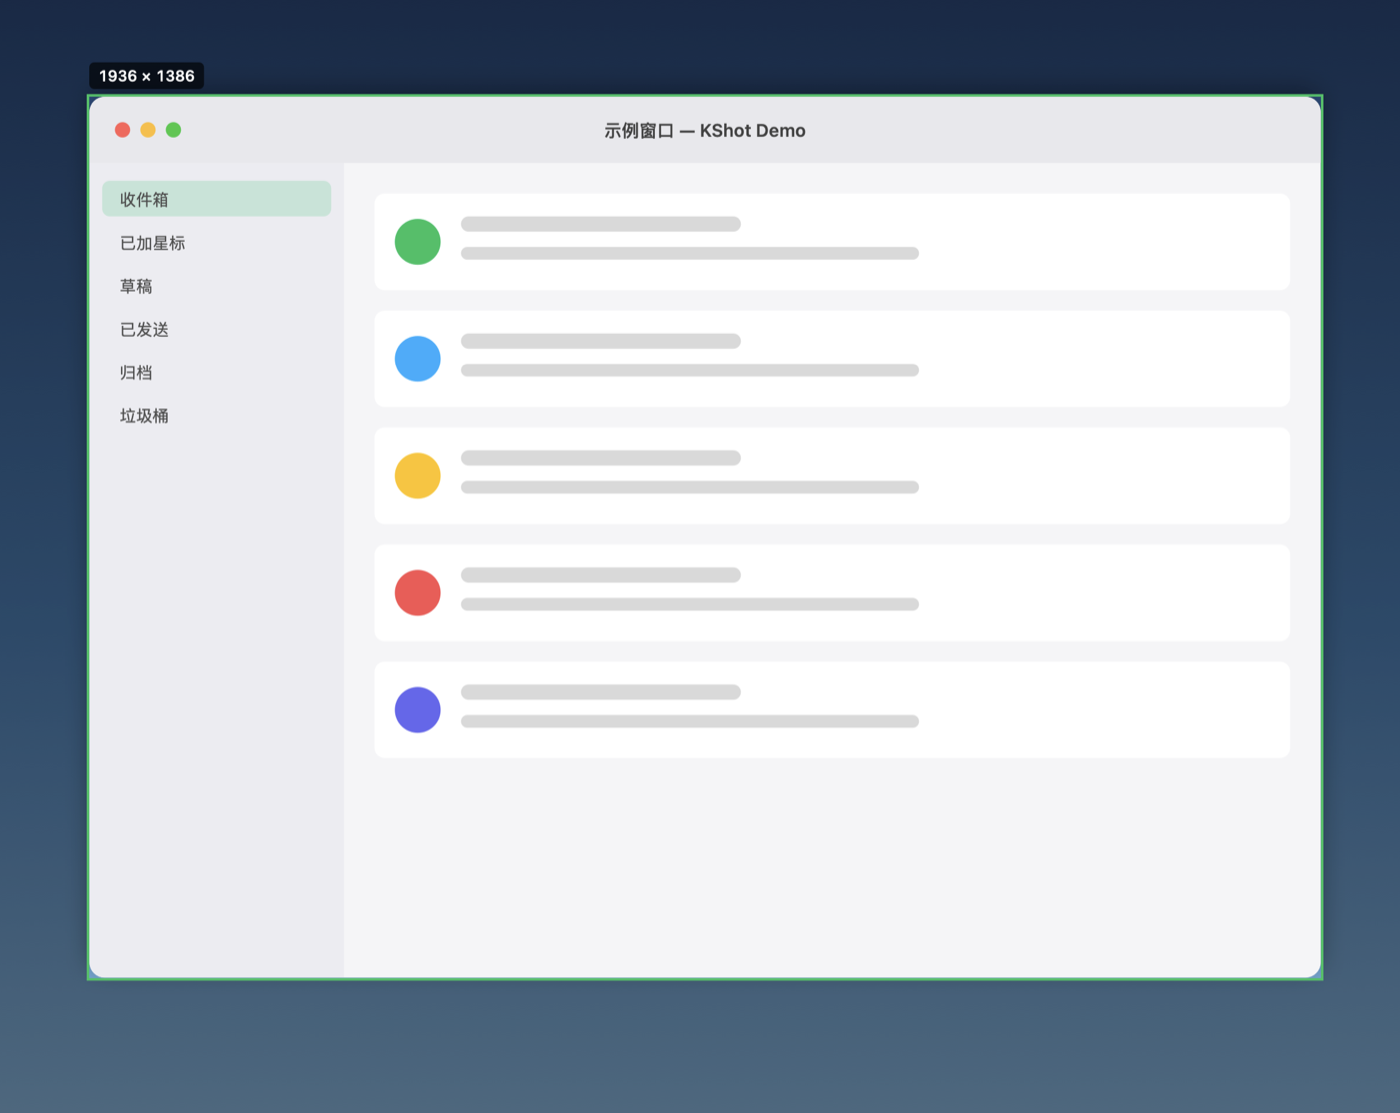
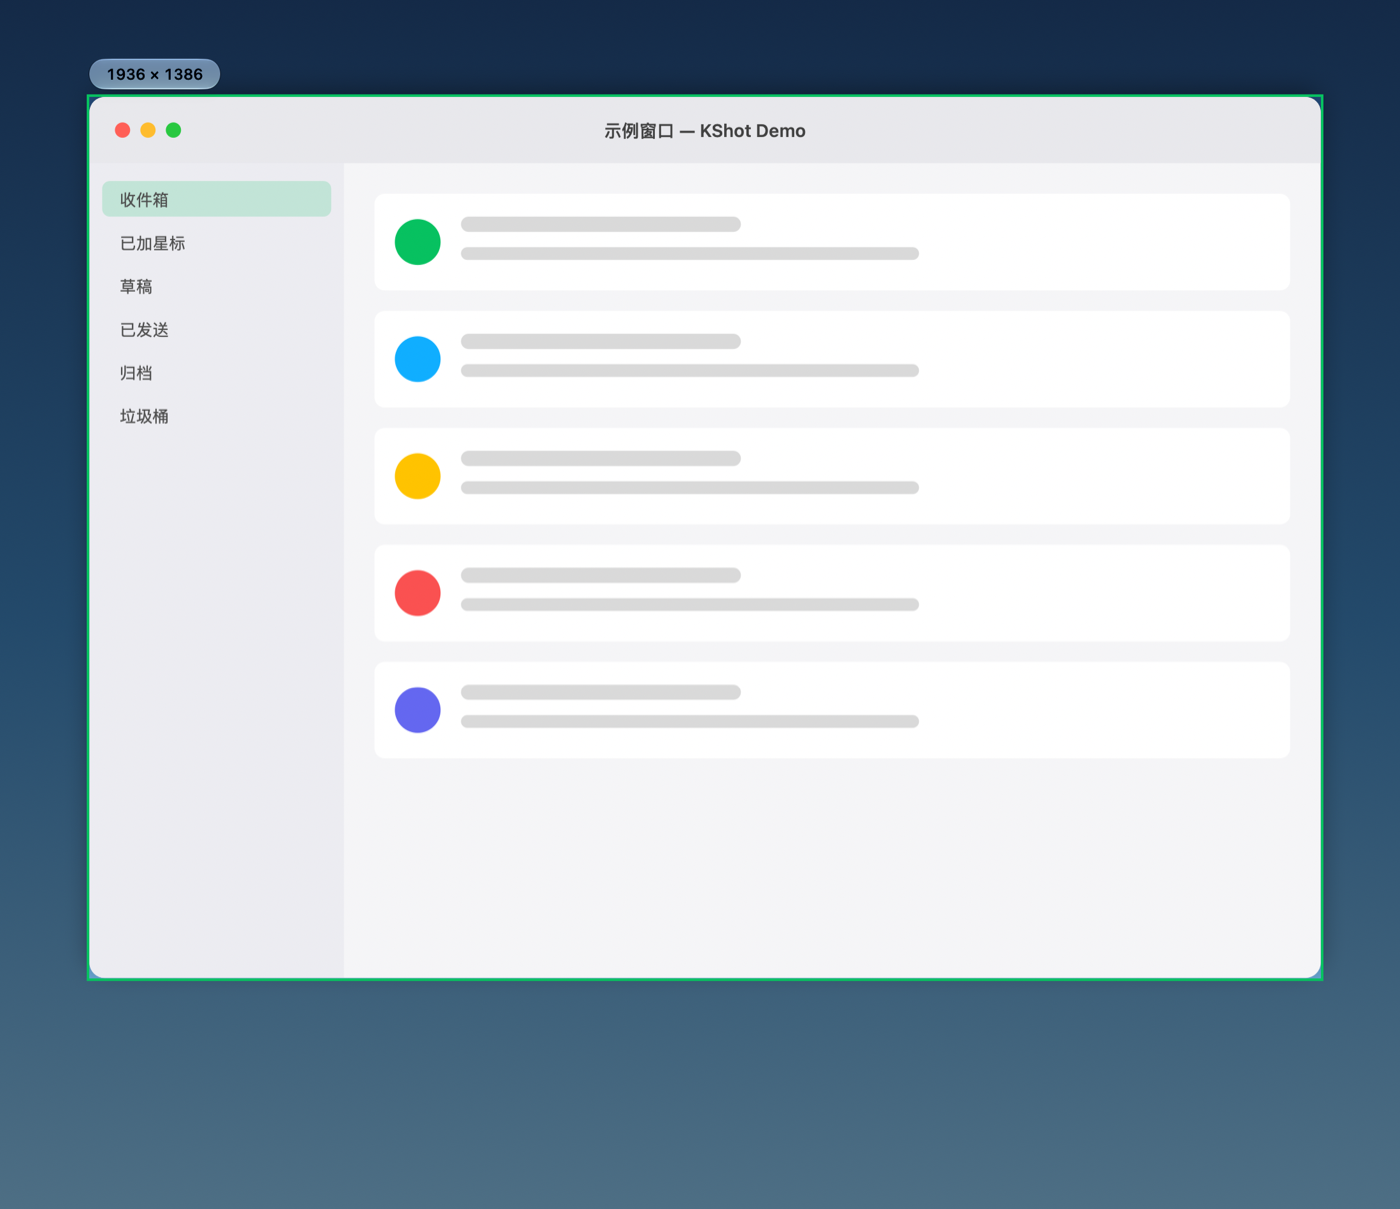
尺寸标签改为液态玻璃胶囊；玻璃容器显式开启 layer 支持

diff --git a/Sources/KShot/OverlayView.swift b/Sources/KShot/OverlayView.swift
@@ -53,6 +53,7 @@ final class OverlayView: NSView {
 
     private let toolbar = ToolbarView()
     private let options = OptionsView()
+    private let sizeLabel = SizeLabelView()
     private var textEditor: TextEditorView?
 
     private static let dimAlpha: CGFloat = 0.42
@@ -79,6 +80,8 @@ final class OverlayView: NSView {
 
         toolbar.isHidden = true
         options.isHidden = true
+        sizeLabel.isHidden = true
+        addSubview(sizeLabel)
         addSubview(toolbar)
         addSubview(options)
         toolbar.onAction = { [weak self] action in self?.handle(action) }
@@ -157,8 +160,28 @@ final class OverlayView: NSView {
             }
         }
 
-        // 6. 尺寸标签
-        drawSizeLabel(for: cut, in: ctx)
+    }
+
+    /// 每次标记重绘时同步更新尺寸标签（玻璃胶囊子视图）
+    override var needsDisplay: Bool {
+        didSet { if needsDisplay { updateSizeLabel() } }
+    }
+
+    private func updateSizeLabel() {
+        guard let rect = selection ?? hoverRect else {
+            sizeLabel.isHidden = true
+            return
+        }
+        let scale = shot.scale
+        let size = sizeLabel.setText("\(Int((rect.width * scale).rounded())) × \(Int((rect.height * scale).rounded()))")
+        var origin = CGPoint(x: rect.minX, y: rect.minY - size.height - 6)
+        if origin.y < bounds.minY + 2 {
+            origin.y = rect.minY + 6
+            origin.x = rect.minX + 6
+        }
+        origin.x = min(max(bounds.minX + 2, origin.x), bounds.maxX - size.width - 2)
+        sizeLabel.frame = CGRect(origin: origin, size: size)
+        sizeLabel.isHidden = false
     }
 
     private var showsHandles: Bool {
@@ -167,29 +190,6 @@ final class OverlayView: NSView {
         case .selecting, .pending, .drawing: return false
         default: return true
         }
-    }
-
-    private func drawSizeLabel(for rect: CGRect, in ctx: CGContext) {
-        let scale = shot.scale
-        let text = "\(Int((rect.width * scale).rounded())) × \(Int((rect.height * scale).rounded()))"
-        let attrs: [NSAttributedString.Key: Any] = [
-            .font: NSFont.monospacedDigitSystemFont(ofSize: 12, weight: .medium),
-            .foregroundColor: NSColor.white,
-        ]
-        let str = NSAttributedString(string: text, attributes: attrs)
-        let size = str.size()
-        let padX: CGFloat = 7, padY: CGFloat = 3
-        var origin = CGPoint(x: rect.minX, y: rect.minY - size.height - padY * 2 - 6)
-        if origin.y < bounds.minY + 2 {
-            origin.y = rect.minY + 6
-            origin.x = rect.minX + 6
-        }
-        origin.x = min(max(bounds.minX + 2, origin.x), bounds.maxX - size.width - padX * 2 - 2)
-        let bg = CGRect(x: origin.x, y: origin.y, width: size.width + padX * 2, height: size.height + padY * 2)
-        ctx.setFillColor(NSColor(white: 0, alpha: 0.65).cgColor)
-        ctx.addPath(CGPath(roundedRect: bg, cornerWidth: 4, cornerHeight: 4, transform: nil))
-        ctx.fillPath()
-        str.draw(at: CGPoint(x: bg.minX + padX, y: bg.minY + padY))
     }
 
     // MARK: - 窗口识别

diff --git a/Sources/KShot/GlassBackdrop.swift b/Sources/KShot/GlassBackdrop.swift
@@ -39,3 +39,43 @@ final class SeparatorView: NSView {
         bounds.fill()
     }
 }
+
+/// 尺寸标签：玻璃胶囊 + 等宽数字
+final class SizeLabelView: NSView {
+    static let height: CGFloat = 24
+    private let label = NSTextField(labelWithString: "")
+    private let content = NSView()
+    private let padX: CGFloat = 9
+
+    override var isFlipped: Bool { true }
+
+    init() {
+        super.init(frame: CGRect(x: 0, y: 0, width: 80, height: SizeLabelView.height))
+        wantsLayer = true // NSGlassEffectView 需要 layer-backed 的父视图，否则不渲染
+        label.font = .monospacedDigitSystemFont(ofSize: 12, weight: .medium)
+        label.textColor = .labelColor
+        label.alignment = .center
+        content.addSubview(label)
+        let backdrop = GlassBackdrop.make(cornerRadius: SizeLabelView.height / 2, content: content)
+        backdrop.frame = bounds
+        addSubview(backdrop)
+    }
+
+    required init?(coder: NSCoder) { fatalError() }
+
+    /// 更新文字并返回新的尺寸
+    func setText(_ text: String) -> CGSize {
+        label.stringValue = text
+        label.sizeToFit()
+        let w = ceil(label.frame.width) + padX * 2
+        frame.size = CGSize(width: w, height: SizeLabelView.height)
+        content.frame = CGRect(origin: .zero, size: frame.size)
+        label.frame = CGRect(x: padX, y: (SizeLabelView.height - label.frame.height) / 2, width: ceil(label.frame.width), height: label.frame.height)
+        return frame.size
+    }
+
+    override func mouseDown(with event: NSEvent) {}
+
+    var debugText: String { label.stringValue }
+    var debugLabelFrame: CGRect { label.frame }
+}

diff --git a/Sources/KShot/ToolbarView.swift b/Sources/KShot/ToolbarView.swift
@@ -129,6 +129,7 @@ final class ToolbarView: NSView {
 
     init() {
         super.init(frame: .zero)
+        wantsLayer = true
 
         func add(_ action: ToolbarAction, _ symbol: String, fallback: String? = nil, _ tip: String, role: ToolButton.Role = .normal) {
             let b = ToolButton(symbol: symbol, fallback: fallback, tip: tip, role: role)
@@ -215,6 +216,7 @@ final class OptionsView: NSView {
 
     init() {
         super.init(frame: .zero)
+        wantsLayer = true
         let width = pad * 2 + cell * CGFloat(StrokeSize.allCases.count) + gap + 1 + gap + cell * CGFloat(Palette.colors.count)
         frame.size = CGSize(width: width, height: OptionsView.height)
         content.owner = self
